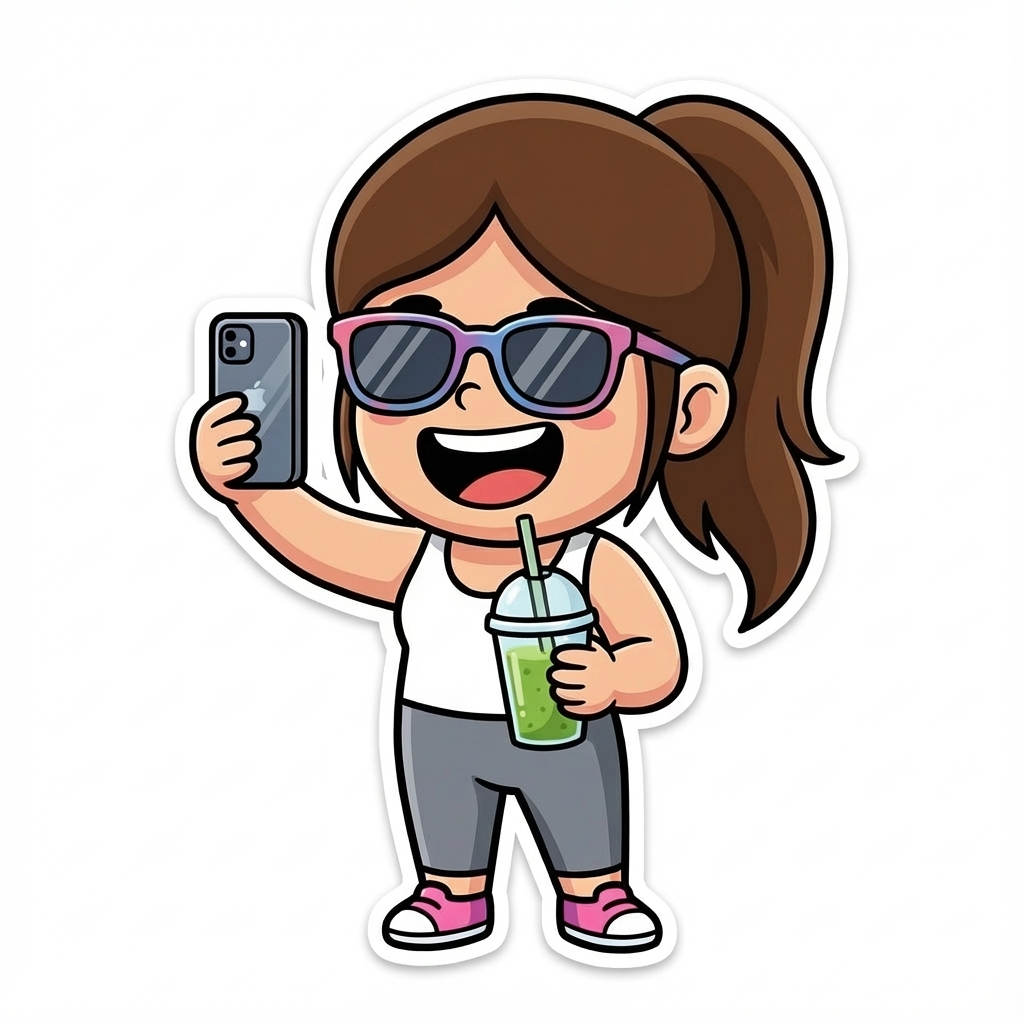
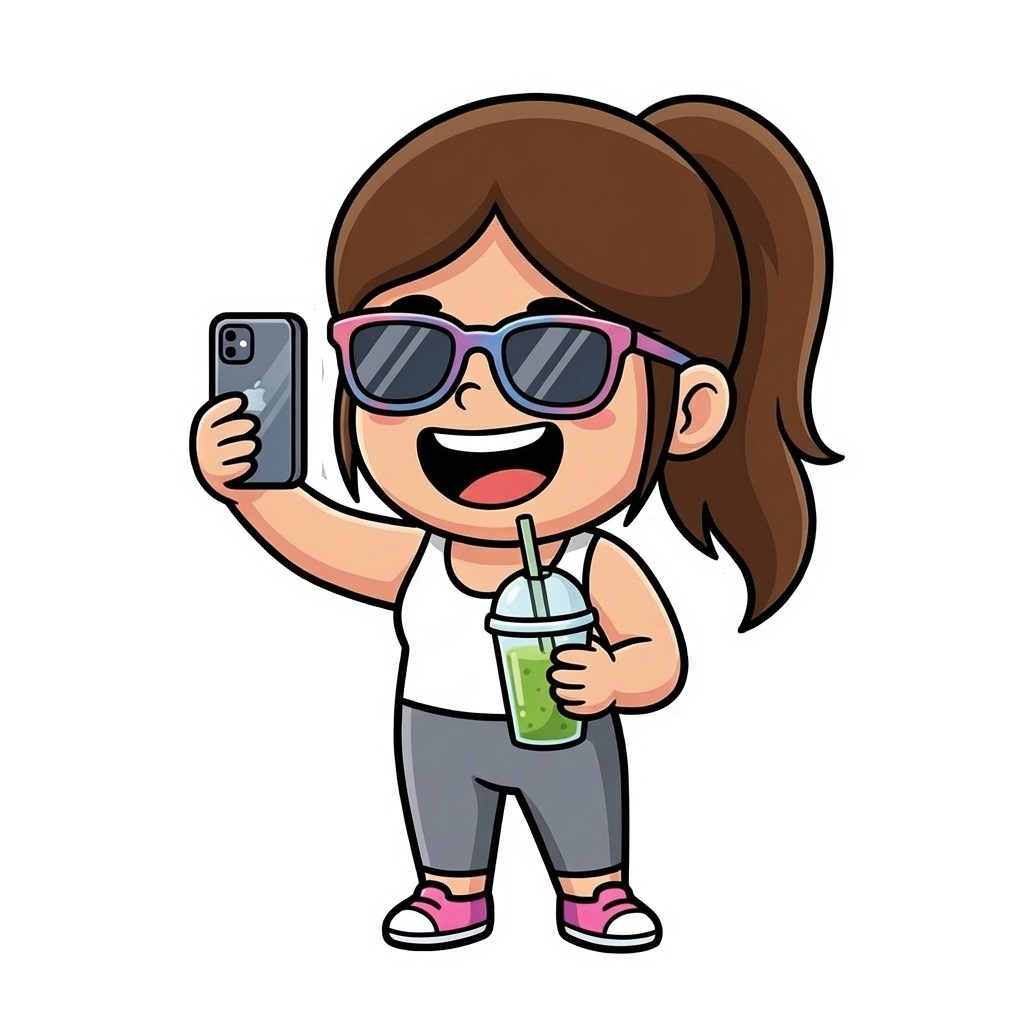
UI改善: ホームページキャラクターマーキー追加 & 透明背景キャラクター更新
- ホームページに動的キャラクターマーキー機能を追加
  - CharacterMarqueeコンポーネント新規作成
  - 2行の無限スクロール（右向き・左向き）実装
  - 全16キャラクターを80-96pxサイズで表示
  - 半透明エフェクト(opacity-70)とホバー効果
- 全キャラクター画像を透明背景版に更新（17ファイル）
- SEFQ「気まぐれキャット」キャラクター名・説明文更新
- ギャラリーページの24問対応バグ修正

🤖 Generated with [Claude Code](https://claude.ai/code)

diff --git a/src/data/diagramTypes.ts b/src/data/diagramTypes.ts
@@ -78,21 +78,21 @@ export const diagramTypes: DiagramTypes = {
     }
   },
   SEFQ: {
-    name: 'トレンドつまみ食い姉さん',
-    emoji: '🥣',
-    catchcopy: '形から入って、形だけで終わる天才。',
-    basicEcology: '道具を揃えた瞬間がピーク。バランスボールとプロテインが墓場行きになる三日坊主の女王。',
-    detailedEcology: '「これからは〇〇の時代！」と新しいダイエット法に飛びつくスピードは世界一。テレビで話題になった翌日には、その食材や最新グッズが家に届いています。しかし、熱しやすく冷めやすいのが最大の弱点。家には「数回使っただけのバランスボール」「味が合わなかった大量のプロテイン」「期限切れのオートミール」が眠る『ダイエット墓場』が形成されています。「今回は本気だから！」という言葉、もう100回は言っています。',
-    fatCause: '可愛いヨガウェアや高いサプリを買った瞬間がモチベーションのピークで、手に入れただけで「痩せた気」になってしまうのが敗因です。また、極端な方法（○○だけ食べる、など）に飛びつきがちなので、すぐに飽きて反動でドカ食いし、元の体重より増えるパターンを繰り返しています。',
-    solution: '一つのことをコツコツ続けるのは、あなたの辞書にはありません。無理に続けようとせず、「飽き性」を武器にしましょう。おすすめは**「1週間ごとにダイエット法を変える」**こと。「今週はダンス」「来週は糖質オフ」「再来週は半身浴」と、飽きる前に次々と新しい刺激を入れるのです。常に「新しいことをやっているワクワク感」があれば、結果的に運動や食事管理が長く続きます。',
+    name: '気まぐれキャット',
+    emoji: '🐱',
+    catchcopy: '熱しやすく冷めやすい、気まぐれハンター。',
+    basicEcology: '「面白そう！」と新しいダイエットに飛びつく瞬発力は、獲物を狙う野生動物そのもの。',
+    detailedEcology: 'テレビやSNSで話題になった翌日には、もう手を出しています。しかし、最大の弱点は「飽きるのも光の速さ」だということ。家には「数回使っただけのバランスボール」「味が合わなかったプロテイン」など、かつて遊んだおもちゃのような『ダイエット墓場』が形成されています。誰かに強制されるのは大嫌い。自分の気が向いた時しか動きません。',
+    fatCause: '買ったことで満足症候群。可愛いヨガウェアや高いサプリを買った瞬間がモチベーションのピーク。手に入れただけで「痩せた気」になり、満足して寝てしまうのが敗因です。また、気分屋なので「今日は雨だからやめ」「なんか違う」と、やらない理由を見つける天才でもあり、気づけば元の生活に戻っています。',
+    solution: '遊び感覚の『味変』戦略。一つのことをコツコツ続けるのは無理です。猫に「待て」をするようなもの。無理に続けようとせず、「飽き性」を武器にしましょう。おすすめは**「飽きる前に次へ行く」**こと。「今週はダンス」「来週は糖質オフ」と、猫じゃらしを変えるように次々と新しい遊び（ダイエット）を見つけてください。常に「新しい刺激」があれば、結果的に動き続けることができます。',
     compatibility: {
       good: {
         type: 'GEFQ',
-        reason: '「これバズってるらしいよ！やろう！」とノリが同じ。一緒に新しい流行りに飛びついて、飽きたら一緒に次へ行けるので、罪悪感なく楽しめる最高のパートナー。'
+        reason: '「これバズってる！やろう！」とノリが同じ。一緒に新しい流行りに飛びついて、飽きたら一緒に次へ行けるので、罪悪感なく楽しめる最高のパートナー。'
       },
       bad: {
         type: 'SRCQ',
-        reason: '「その酵素ドリンク、成分表見た？糖質高いよ」と、あなたの夢や直感をデータで冷静に論破してくる天敵。話しているとやる気が急速に冷めるので注意。'
+        reason: '「そのおやつ、脂質が高いよ」と、あなたの気まぐれな行動をデータで冷静に管理・制限してくる天敵。自由を奪われるストレスで、近づくだけで太りそうになります。'
       }
     }
   },

diff --git a/src/components/CharacterMarquee.tsx b/src/components/CharacterMarquee.tsx
@@ -1,0 +1,73 @@
+'use client'
+
+import { motion } from 'framer-motion'
+import Image from 'next/image'
+
+interface CharacterMarqueeProps {
+  direction?: 'left' | 'right'
+  speed?: number
+}
+
+export default function CharacterMarquee({ 
+  direction = 'right', 
+  speed = 30 
+}: CharacterMarqueeProps) {
+  // All 16 character types
+  const characterTypes = [
+    'SRFQ', 'SRFL', 'SRCQ', 'SRCL',
+    'SEFQ', 'SEFL', 'SECQ', 'SECL',
+    'GRFQ', 'GRFL', 'GRCQ', 'GRCL',
+    'GEFQ', 'GEFL', 'GECQ', 'GECL'
+  ]
+
+  // Duplicate the array to create seamless infinite loop
+  const duplicatedTypes = [...characterTypes, ...characterTypes]
+
+  return (
+    <div className="overflow-hidden whitespace-nowrap">
+      <motion.div
+        className="flex gap-6"
+        animate={{
+          x: direction === 'right' ? ['0%', '-50%'] : ['-50%', '0%']
+        }}
+        transition={{
+          duration: speed,
+          repeat: Infinity,
+          ease: 'linear'
+        }}
+      >
+        {duplicatedTypes.map((type, index) => (
+          <div
+            key={`${type}-${index}`}
+            className="flex-shrink-0 w-20 h-20 md:w-24 md:h-24"
+          >
+            <Image
+              src={`/characters/${type === 'SRFQ' ? 'SRFQ_gallery.png' : 
+                    type === 'SECQ' ? 'SECQ_gallery.png' : 
+                    type === 'SEFL' ? 'SEFL_gallery.png' : 
+                    type === 'SRCL' ? 'SRCL_gallery.png' : 
+                    type === 'GEFQ' ? 'GEFQ_gallery.png' : 
+                    type === 'SRFL' ? 'SRFL_gallery.png' : 
+                    type === 'GRCQ' ? 'GRCQ_gallery.png' : 
+                    type === 'GEFL' ? 'GEFL_gallery.png' : 
+                    type === 'GECL' ? 'GECL_gallery.png' : 
+                    type === 'GECQ' ? 'GECQ_gallery.png' : 
+                    type === 'SRCQ' ? 'SRCQ_gallery.png' : 
+                    type === 'SEFQ' ? 'SEFQ_gallery.png' : 
+                    type === 'GRCL' ? 'GRCL_gallery.png' : 
+                    type === 'GRFQ' ? 'GRFQ_gallery.png' : 
+                    type === 'SECL' ? 'SECL_gallery.png' : 
+                    type === 'GRFL' ? 'GRFL_gallery.png' : 
+                    type + '_new3.png'}`}
+              alt={`${type} character`}
+              width={96}
+              height={96}
+              className="w-full h-full object-contain opacity-70 hover:opacity-100 transition-opacity duration-300"
+              quality={85}
+            />
+          </div>
+        ))}
+      </motion.div>
+    </div>
+  )
+}

diff --git a/src/app/gallery/page.tsx b/src/app/gallery/page.tsx
@@ -135,25 +135,25 @@ export default function GalleryPage() {
                         // 該当タイプの結果を生成するためのスコアを計算
                         const typeCodeStr = String(typeCode)
                         
-                        // スコアリング: 質問1-5(SG軸), 6-10(RE軸), 11-15(FC軸), 16-20(QL軸)
+                        // スコアリング: 質問1-6(SG軸), 7-12(RE軸), 13-18(FC軸), 19-24(QL軸)
                         // 正の値なら前者(S,R,F,Q)、負の値なら後者(G,E,C,L)
-                        const answers = Array.from({ length: 20 }, (_, i) => {
+                        const answers = Array.from({ length: 24 }, (_, i) => {
                           const questionId = i + 1
                           let score = 1 // デフォルト値
                           
                           // 各軸に対して正しいスコアを設定
-                          if (questionId >= 1 && questionId <= 5) {
+                          if (questionId >= 1 && questionId <= 6) {
                             // SG軸: Sタイプなら正、Gタイプなら負
-                            score = typeCodeStr.startsWith('S') ? 2 : -2
-                          } else if (questionId >= 6 && questionId <= 10) {
+                            score = typeCodeStr.startsWith('S') ? 3 : -3
+                          } else if (questionId >= 7 && questionId <= 12) {
                             // RE軸: Rタイプなら正、Eタイプなら負
-                            score = typeCodeStr.charAt(1) === 'R' ? 2 : -2
-                          } else if (questionId >= 11 && questionId <= 15) {
+                            score = typeCodeStr.charAt(1) === 'R' ? 3 : -3
+                          } else if (questionId >= 13 && questionId <= 18) {
                             // FC軸: Fタイプなら正、Cタイプなら負
-                            score = typeCodeStr.charAt(2) === 'F' ? 2 : -2
-                          } else if (questionId >= 16 && questionId <= 20) {
+                            score = typeCodeStr.charAt(2) === 'F' ? 3 : -3
+                          } else if (questionId >= 19 && questionId <= 24) {
                             // QL軸: Qタイプなら正、Lタイプなら負
-                            score = typeCodeStr.charAt(3) === 'Q' ? 2 : -2
+                            score = typeCodeStr.charAt(3) === 'Q' ? 3 : -3
                           }
                           
                           return {

diff --git a/src/app/page.tsx b/src/app/page.tsx
@@ -3,6 +3,7 @@
 import { motion } from 'framer-motion'
 import Link from 'next/link'
 import { Noto_Sans_JP, Zen_Maru_Gothic } from 'next/font/google'
+import CharacterMarquee from '@/components/CharacterMarquee'
 
 const notoSansJP = Noto_Sans_JP({
   subsets: ['latin'],
@@ -42,11 +43,25 @@ export default function Home() {
             <motion.button
               whileHover={{ scale: 1.05 }}
               whileTap={{ scale: 0.95 }}
-              className="bg-[#2196F3] hover:bg-[#1976D2] text-white font-bold py-4 px-12 rounded-full text-lg md:text-xl shadow-xl transition-all duration-300"
+              className="bg-[#2196F3] hover:bg-[#1976D2] text-white font-bold py-4 px-12 rounded-full text-lg md:text-xl shadow-xl transition-all duration-300 mb-16"
             >
               診断を始める
             </motion.button>
           </Link>
+        </motion.div>
+
+        {/* Character Marquee Section */}
+        <motion.div
+          initial={{ y: 50, opacity: 0 }}
+          animate={{ y: 0, opacity: 1 }}
+          transition={{ duration: 1, delay: 0.5 }}
+          className="w-full space-y-6"
+        >
+          {/* First row - scrolling right */}
+          <CharacterMarquee direction="right" speed={40} />
+          
+          {/* Second row - scrolling left */}
+          <CharacterMarquee direction="left" speed={35} />
         </motion.div>
       </main>
     </div>
